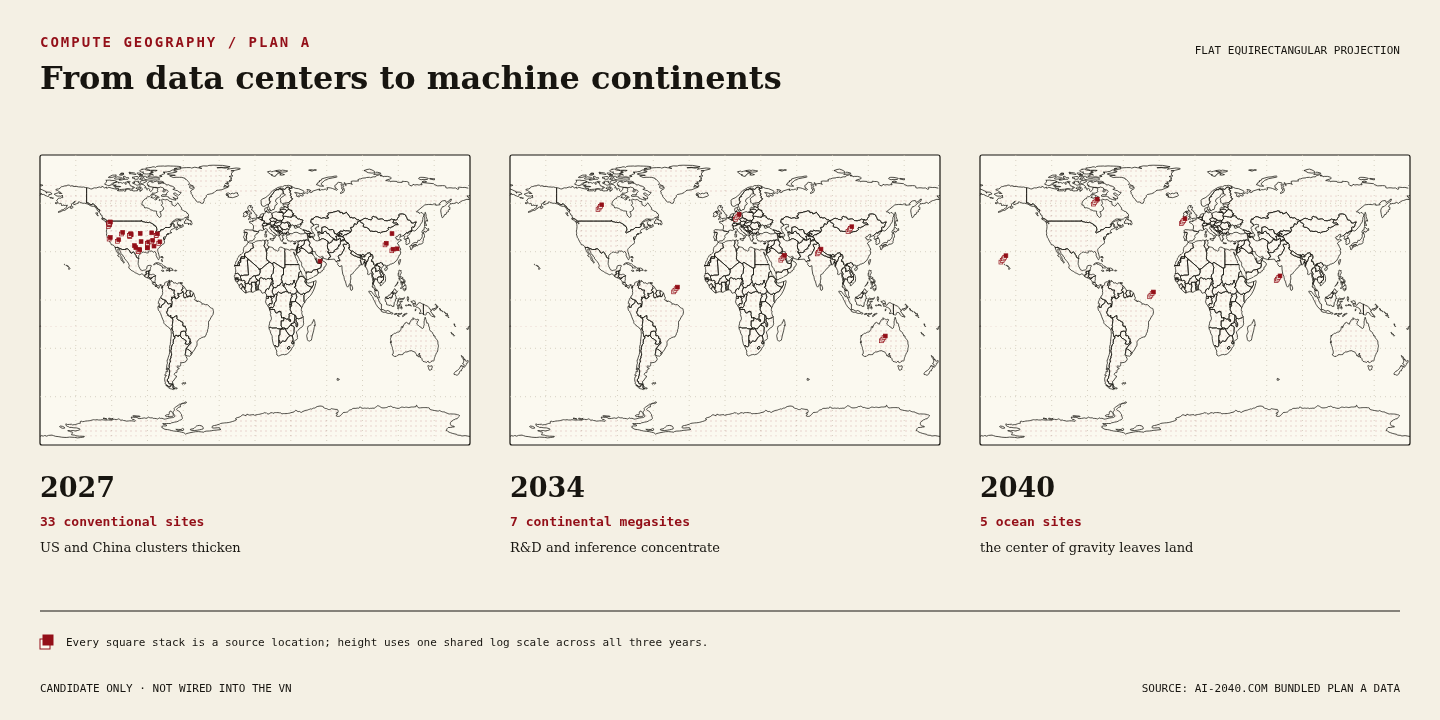
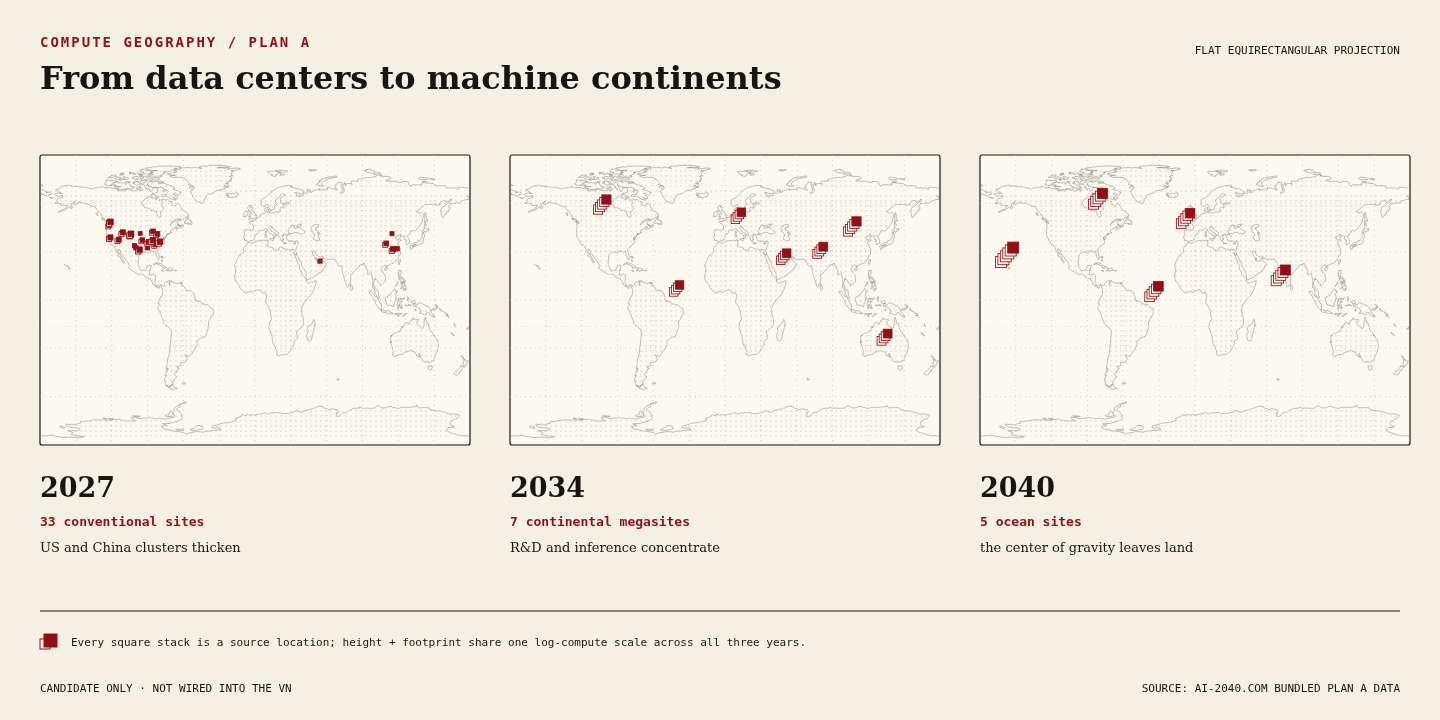
Refine standalone compute map candidate

diff --git a/qa/compute-map-candidate/generate.js b/qa/compute-map-candidate/generate.js
@@ -40,7 +40,10 @@ function ringsFor(topology) {
     indexes.forEach((index, i) => points.push(...readArc(index).slice(i ? 1 : 0)));
     return points;
   };
-  for (const geometry of topology.objects.countries.geometries) {
+  // Use the atlas's merged `land` object, not `countries`. This gives us
+  // coastlines and island edges without drawing political borders through
+  // the quiet halftone field.
+  for (const geometry of topology.objects.land.geometries) {
     if (geometry.type === "Polygon") geometry.arcs.forEach(r => rings.push(stitch(r)));
     if (geometry.type === "MultiPolygon") geometry.arcs.forEach(p => p.forEach(r => rings.push(stitch(r))));
   }
@@ -96,12 +99,19 @@ function stack(site, box, sharedBounds, compact = false) {
   const [name, lat, lng, compute] = site;
   const [x, y] = project(lat, lng, box);
   const norm = (Math.log10(compute) - sharedBounds.min) / (sharedBounds.max - sharedBounds.min);
-  const levels = Math.max(1, Math.round(1 + Math.max(0, norm) * (compact ? 4 : 7)));
-  const size = compact ? 3.8 : 5.8;
+  const levelNorm = Math.max(0, Math.min(1, norm));
+  const levels = Math.max(1, Math.round(1 + levelNorm * (compact ? 5 : 8)));
+  // Footprint and height both grow from the same shared log-compute value.
+  // Early conventional sites stay pin-like; later mega/ocean centers become
+  // visually massive instead of reading as the same tiny mark with more
+  // barely-visible layers.
+  const size = compact ? 3.8 + levelNorm * 7.2 : 7 + levelNorm * 9;
+  const stepX = compact ? 1.1 + levelNorm * 1.35 : 1.7 + levelNorm * 1.5;
+  const stepY = compact ? 1.35 + levelNorm * 1.55 : 2.1 + levelNorm * 1.9;
   let blocks = "";
   for (let level = 0; level < levels; level++) {
-    const ox = level * (compact ? 1.25 : 1.7), oy = -level * (compact ? 1.6 : 2.2);
-    blocks += `<rect x="${(x + ox - size / 2).toFixed(1)}" y="${(y + oy - size / 2).toFixed(1)}" width="${size}" height="${size}" fill="${level === levels - 1 ? RED : PAPER}" stroke="${RED}" stroke-width="${compact ? .7 : 1}"/>`;
+    const ox = level * stepX, oy = -level * stepY;
+    blocks += `<rect x="${(x + ox - size / 2).toFixed(1)}" y="${(y + oy - size / 2).toFixed(1)}" width="${size.toFixed(1)}" height="${size.toFixed(1)}" fill="${level === levels - 1 ? RED : PAPER}" stroke="${RED}" stroke-width="${compact ? .85 : 1.1}"/>`;
   }
   return `<g data-site="${name.replaceAll("&", "&amp;").replaceAll('"', '&quot;')}">${blocks}</g>`;
 }
@@ -116,7 +126,7 @@ function mapPanel(rings, date, box, options = {}) {
     <rect x="${box.x}" y="${box.y}" width="${box.w}" height="${box.h}" rx="${options.radius || 0}" fill="${PAPER}" stroke="${INK}" stroke-width="1.2"/>
     ${graticule(box)}
     <path d="${d}" fill="url(#dots)" fill-rule="evenodd" stroke="none"/>
-    <path d="${outline}" fill="none" stroke="${INK}" stroke-width=".75" stroke-linejoin="round"/>
+    <path d="${outline}" fill="none" stroke="#817b6d" stroke-opacity=".72" stroke-width=".65" stroke-linejoin="round"/>
     <g>${sites.slice().sort((a,b) => a[3]-b[3]).map(site => stack(site, box, bounds, options.compact)).join("")}</g>
   </g>`;
 }
@@ -146,7 +156,7 @@ function singleSvg(rings) {
   <text x="54" y="50" class="eyebrow">GLOBAL COMPUTE CENTERS / PLAN A</text><text x="54" y="91" class="title">The machine archipelago</text>
   <text x="934" y="50" class="eyebrow">2040.01.01</text><text x="934" y="77" class="sub">${sites.length} primary sites  ·  ${fmtCompute(total)} total</text>
   ${mapPanel(rings, "2040-01-01", box)}${labels}
-  <g transform="translate(54 603)"><rect width="12" height="12" fill="${PAPER}" stroke="${RED}"/><rect x="3" y="-4" width="12" height="12" fill="${RED}" stroke="${RED}"/><text x="27" y="8" class="sub">stack height encodes compute on a shared logarithmic scale</text></g>
+  <g transform="translate(54 603)"><rect width="12" height="12" fill="${PAPER}" stroke="${RED}"/><rect x="4" y="-5" width="15" height="15" fill="${RED}" stroke="${RED}"/><text x="32" y="8" class="sub">stack height + footprint encode compute on a shared logarithmic scale</text></g>
   <text x="934" y="535" class="note">Flat projection makes the geographic shift legible:</text><text x="934" y="555" class="note">by 2040, compute has moved offshore.</text>
   <path d="M54 678H1226" stroke="${INK}"/><text x="54" y="700" class="sub">CANDIDATE ONLY  ·  NOT WIRED INTO THE VN</text><text x="1226" y="700" class="sub" text-anchor="end">SOURCE: AI-2040.COM</text>
   </svg>`;
@@ -166,7 +176,7 @@ function timelineSvg(rings) {
   <rect width="100%" height="100%" fill="${CREAM}"/><text x="40" y="47" class="eyebrow">COMPUTE GEOGRAPHY / PLAN A</text><text x="40" y="89" class="title">From data centers to machine continents</text><text x="1400" y="54" class="small" text-anchor="end">FLAT EQUIRECTANGULAR PROJECTION</text>
   ${dates.map((date, i) => mapPanel(rings, date, boxes[i], { compact: true, radius: 2 })).join("")}
   ${captions.map((c, i) => `<text x="${boxes[i].x}" y="497" class="year">${c[0]}</text><text x="${boxes[i].x}" y="526" class="stat">${c[1]}</text><text x="${boxes[i].x}" y="552" class="note">${c[2]}</text>`).join("")}
-  <path d="M40 611H1400" stroke="${INK}"/><g transform="translate(40 639)"><rect width="10" height="10" fill="${PAPER}" stroke="${RED}"/><rect x="3" y="-4" width="10" height="10" fill="${RED}" stroke="${RED}"/><text x="26" y="7" class="small">Every square stack is a source location; height uses one shared log scale across all three years.</text></g>
+  <path d="M40 611H1400" stroke="${INK}"/><g transform="translate(40 639)"><rect width="10" height="10" fill="${PAPER}" stroke="${RED}"/><rect x="4" y="-5" width="13" height="13" fill="${RED}" stroke="${RED}"/><text x="31" y="7" class="small">Every square stack is a source location; height + footprint share one log-compute scale across all three years.</text></g>
   <text x="40" y="692" class="small">CANDIDATE ONLY  ·  NOT WIRED INTO THE VN</text><text x="1400" y="692" class="small" text-anchor="end">SOURCE: AI-2040.COM BUNDLED PLAN A DATA</text>
   </svg>`;
 }

diff --git a/qa/compute-map-candidate/README.md b/qa/compute-map-candidate/README.md
@@ -27,6 +27,8 @@ The official source map for chunk `3134-95280ea477077464.js` also shows that the
 - normalizes stack size logarithmically against one shared Plan A scale;
 - renders red/cream stack geometry, including satellite tiles for very large sites.
 
-The candidate keeps the first three behaviors and translates the visual treatment into the VN's cream paper, black ink, dossier red, and halftone language. It intentionally uses a flat equirectangular projection so every center remains visible and geography is immediately readable. The detailed 2040 view uses callouts because the canonical timeline has consolidated from dozens of conventional sites to five offshore centers by then.
+The candidate keeps the first three behaviors and translates the visual treatment into the VN's cream paper, black ink, dossier red, and halftone language. It intentionally uses a flat equirectangular projection so every center remains visible and geography is immediately readable. The base map uses the atlas's merged `land` geometry, so only coastlines and island edges appear—there are no internal country borders competing with the compute marks. Coastlines are deliberately light and consistent.
+
+Both stack height and square footprint use the same shared logarithmic compute normalization across years. This keeps the 2027 conventional sites pin-like while making the 2034 megasites and especially the 2040 ocean centers substantially larger. The detailed 2040 view uses callouts because the canonical timeline has consolidated from dozens of conventional sites to five offshore centers by then.
 
 Source checked on 2026-07-10 at <https://ai-2040.com/>.